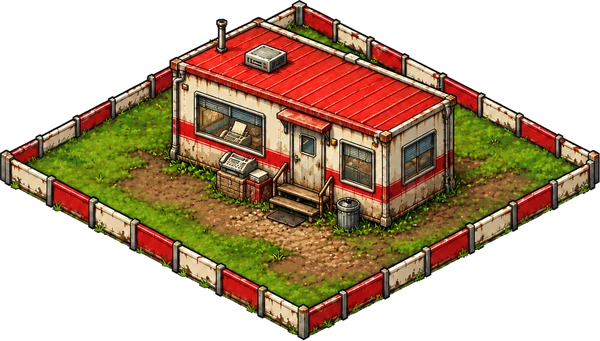
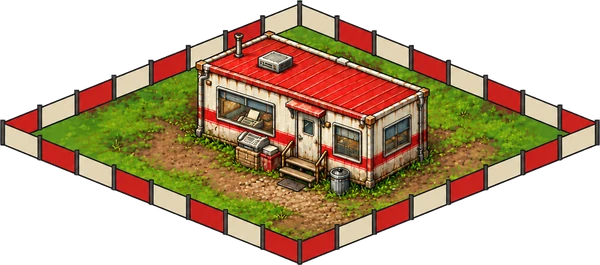
Tycoon demo: academy, transfer office and shop redrawn at the stadium's camera angle
Claude-Session: https://claude.ai/code/session_01B1Ewf1FcmBDPiqTkeHV3Ca

diff --git a/tycoon/game.js b/tycoon/game.js
@@ -283,10 +283,7 @@ const FIT = {
   'building-pitch-3': [[0, 0.616], [1, 0.618], [0.507, 1]], 'building-pitch-4': [[0, 0.609], [1, 0.611], [0.499, 1]],
 };
 // Height (fraction of the image) of the plot's left and right corners in art drawn from a steeper camera.
-const BASE = {
-  'building-academy-1': 0.567, 'building-academy-2': 0.624, 'building-academy-3': 0.644, 'building-academy-4': 0.56,
-  'building-transfer-1': 0.53, 'building-transfer-2': 0.529, 'building-transfer-3': 0.651, 'building-transfer-4': 0.738,
-};
+const BASE = {};
 // Flags stand on the pitch corners the stands don't hide.
 const ANIM = {
   'building-stadium-1': {flags: [[0.1477, 0.6244], [0.5003, 0.3427], [0.8587, 0.6056], [0.5061, 0.8873]], pole: 0.0646, lamps: [[0.0712, 0.3016, 0.0280], [0.4997, 0.0329, 0.0350], [0.9276, 0.3016, 0.0280]]},
